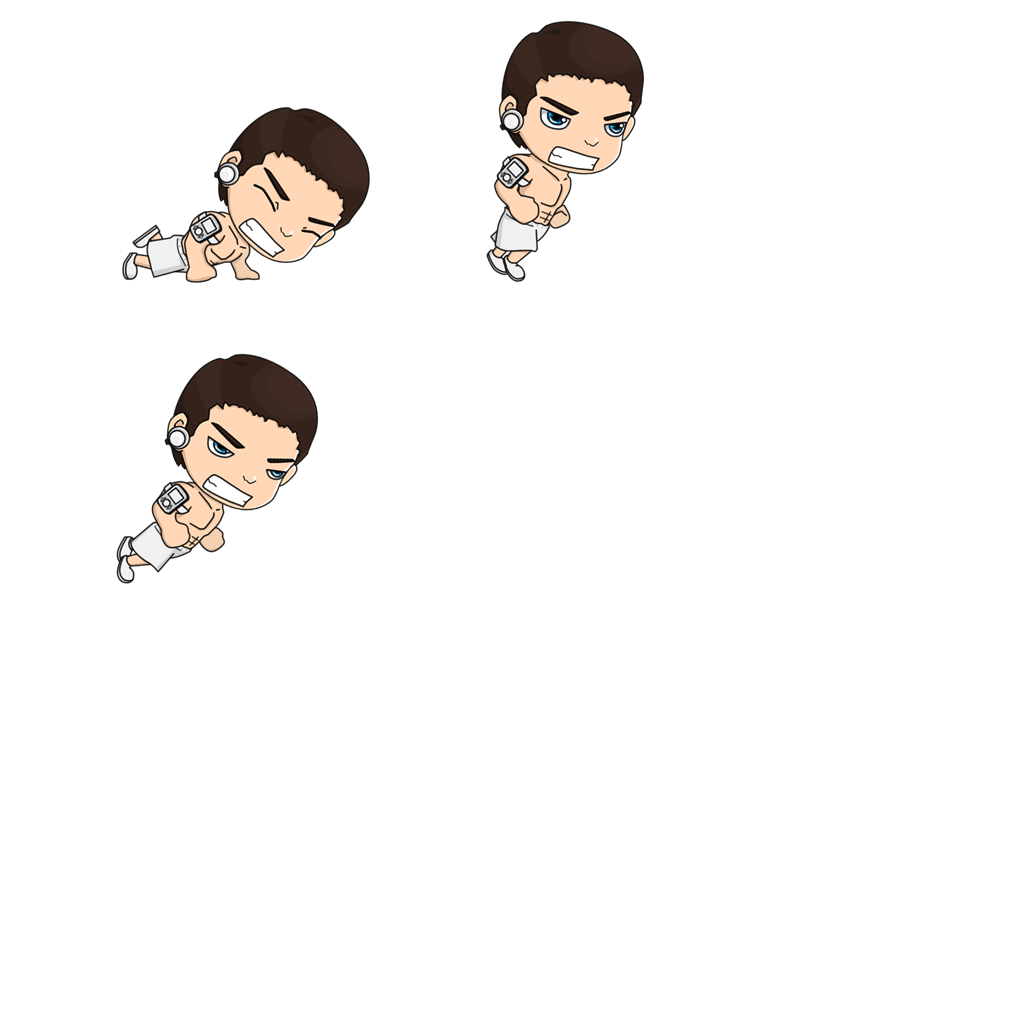
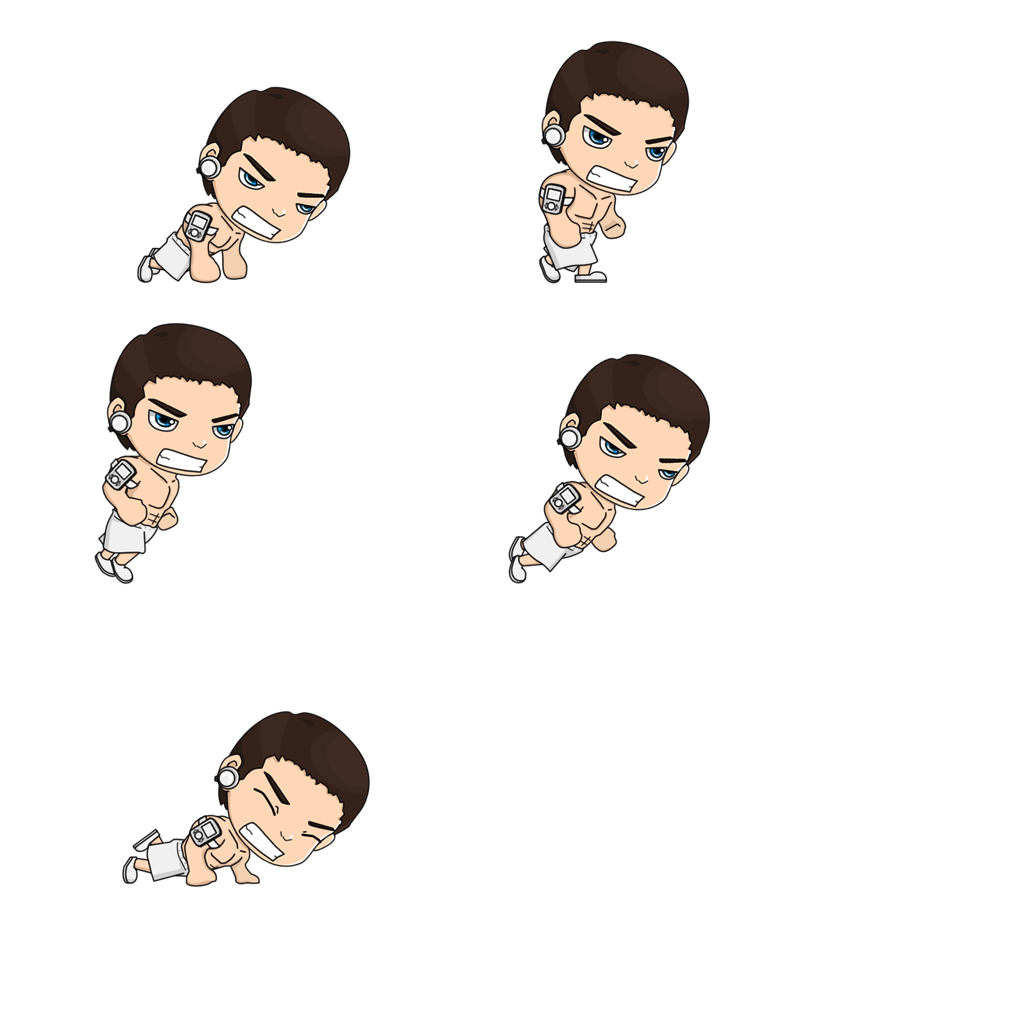
Added the Tim getting up, although i'm not fully satisfied with it yet. Also added a track timer to the HUD.

diff --git a/Clay/TrackTimer.m b/Clay/TrackTimer.m
@@ -1,0 +1,78 @@
+//
+//  Stopwatch.m
+//  Clay
+//
+//  Created by Brian Cable on 10/5/11.
+//  Copyright 2011 Xecudev, LLC. All rights reserved.
+//
+
+#import "TrackTimer.h"
+#import "LayerManager.h"
+
+@implementation TrackTimer
+
++(TrackTimer*) instance
+{
+    return [[self alloc] init];    
+}
+
+- (id)init
+{
+    self = [super init];
+    if (self) {
+        // Initialization code here.
+        _lowerDisplay = [CCLabelTTF labelWithString:@"Time: 00:00:00" fontName:@"Courier" fontSize:14];
+        _lowerDisplay.position = ccp(80,290);
+        _lowerDisplay.color = ccc3(0, 0, 0);
+        
+        [[[LayerManager sharedLayers] currentLayer] addChild:_lowerDisplay];
+        
+        _upperDisplay = [CCLabelTTF labelWithString:@"Time: 00:00:00" fontName:@"Courier" fontSize:14];
+        _upperDisplay.position = ccp(79,291);
+        _upperDisplay.color = ccc3(255, 255, 255);
+        
+        [[[LayerManager sharedLayers] currentLayer] addChild:_upperDisplay];
+        
+        _isStopped = false;
+        
+    }
+    
+    return self;
+}
+
+-(void)update:(float)dt
+{
+    if (!_isStopped) {
+        _totalTime += dt;
+
+        NSString *timeString = [self getTimeString];
+        [_upperDisplay setString:timeString];
+        [_lowerDisplay setString:timeString];
+    }
+}
+
+-(NSString*)getTimeString
+{
+    int seconds = ((int)floorf(_totalTime)) % 60;
+    int minutes = ((int)floorf(_totalTime)) / 60;
+    int milliseconds = floor((_totalTime - (int)_totalTime) * 100);
+    NSMutableString *time = [NSMutableString stringWithString:@"Time: "];
+    if (minutes<10) {
+        [time appendString:@"0"];
+    }
+    [time appendFormat:@"%d:",minutes];
+    
+    if (seconds<10) {
+        [time appendString:@"0"];
+    }
+    [time appendFormat:@"%d:",seconds];
+    
+    if (milliseconds<10) {
+        [time appendString:@"0"];
+    }
+    [time appendFormat:@"%d",milliseconds];
+    
+    return time;
+}
+
+@end

diff --git a/Clay/HudLayer.m b/Clay/HudLayer.m
@@ -9,6 +9,7 @@
 #import "HudLayer.h"
 
 #import "BaseClasses.h"
+#import "TrackTimer.h"
 
 #define HUD_LAYER_BUTTON_OPACITY 140 //tian's suggestion: 204
 #define HUD_LAYER_BUTTON_Y 65
@@ -39,8 +40,14 @@
         _buttonJump = [self initButton:@"UI_Button_Jumping.png" Position:ccp(HUD_LAYER_JUMP_X,HUD_LAYER_BUTTON_Y)];
         _buttonAction = [self initButton:@"UI_Button_Kicking.png" Position:ccp(HUD_LAYER_ACTION_X,HUD_LAYER_BUTTON_Y)];
         _buttonSprint = [self initButton:@"UI_Button_TurboBoost.png" Position:ccp(HUD_LAYER_SPRINT_X,HUD_LAYER_BUTTON_Y)];
+
+        
+        _trackTimer = [TrackTimer instance];
         
         [[LayerManager sharedLayers] forgetWorkingLayer];
+        
+
+        
         
         _resetButtons = false;
         
@@ -142,6 +149,8 @@
         [self resettingButton:_buttonJump TimePassed:dt];
         [self resettingButton:_buttonSprint TimePassed:dt];        
     }
+    
+    [_trackTimer update:dt];
 }
 
 -(void)dealloc

diff --git a/Clay/TrackTimer.h b/Clay/TrackTimer.h
@@ -1,0 +1,27 @@
+//
+//  Stopwatch.h
+//  Clay
+//
+//  Created by Brian Cable on 10/5/11.
+//  Copyright 2011 Xecudev, LLC. All rights reserved.
+//
+
+#import <Foundation/Foundation.h>
+#import "cocos2d.h"
+
+@interface TrackTimer : NSObject
+{
+    CCLabelTTF *_lowerDisplay;
+    CCLabelTTF *_upperDisplay;
+
+    float _totalTime;
+    bool _isStopped;
+}
+
++(TrackTimer*) instance;
+
+-(void)update:(float)dt;
+
+-(NSString*)getTimeString;
+
+@end

diff --git a/Clay/Player.m b/Clay/Player.m
@@ -160,6 +160,11 @@
             
             float x = _x + 60.0f;
             float y = _y + 23.0f;
+            
+            if (_speed.velocity < 0.0f) {
+                _speed.velocity = 0.0f;
+            }
+            
             [_particleSystem addDustImpactAtPosition:CGPointMake(x, y)];
             [[SoundEngine shared] playSound:@"jumpLand"];
         } else if (_isJumping && _isTripping) {

diff --git a/Clay/HudLayer.h b/Clay/HudLayer.h
@@ -10,6 +10,7 @@
 #import "CCLayer.h"
 
 @class Sprite;
+@class TrackTimer;
 
 typedef enum {
     HUD_BUTTON_NONE,
@@ -25,6 +26,8 @@ typedef enum {
     Sprite *_buttonAction;
     
     float _buttonScale;
+    
+    TrackTimer *_trackTimer;
     
     bool _resetButtons;
     

diff --git a/Clay/VideoPlaybackScene.h b/Clay/VideoPlaybackScene.h
@@ -11,7 +11,6 @@
 
 @interface VideoPlaybackScene : CCLayer
 {
-    
 }
 
 +(CCScene*) scene;
